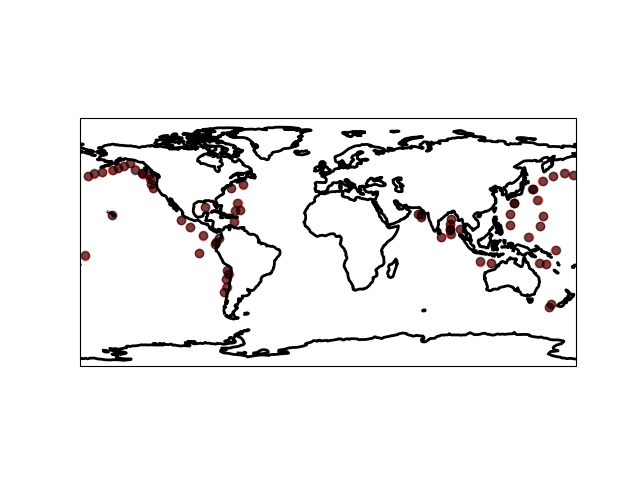
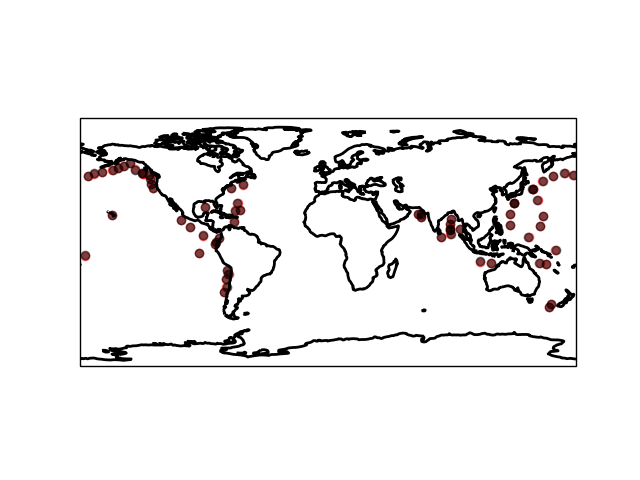
some analysis scripts

Changed region(s): [[0.125, 0.75, 0.9062, 0.7812], [0.125, 0.2188, 0.9062, 0.25]]

diff --git a/sample_epi.py b/sample_epi.py
@@ -3,19 +3,35 @@ import numpy as np
 import os
 
 
-def get_epi():
+# def get_epi():
+#     dir = os.getcwd()+"/csvData/"
+#     fname = "eqs_gt_75_npac.csv"
+#     epi_df = pd.read_csv(dir+fname, sep=',')
+#     locs = np.zeros((len(epi_df), 2))
+#     epi_df['corrected_lons'] = epi_df['longitude'].apply(lambda x: 360. + x if x < 0 else x)
+#     locs[:, 0] = epi_df['corrected_lons'].to_numpy()
+#     locs[:, 1] = epi_df['latitude'].to_numpy()
+#     loc_idx = np.random.randint(0,len(epi_df)-1)
+#     U1 = np.random.uniform()
+#     U2 = np.random.uniform()
+#     rlong = 5./54.6
+#     rlat = 5./69.
+#     long_sample = rlong * np.sqrt(U2) * np.cos(2 * np.pi * U1) + locs[loc_idx][0]
+#     lat_sample = rlat * np.sqrt(U2) * np.sin(2 * np.pi * U1) + locs[loc_idx][1]
+#     return long_sample, lat_sample
+
+
+def get_lons():
     dir = os.getcwd()+"/csvData/"
-    fname = "eqs_gt_8.csv"
+    fname = "eq_gt_75_npac.csv"
     epi_df = pd.read_csv(dir+fname, sep=',')
-    locs = np.zeros((len(epi_df), 2))
     epi_df['corrected_lons'] = epi_df['longitude'].apply(lambda x: 360. + x if x < 0 else x)
-    locs[:, 0] = epi_df['corrected_lons'].to_numpy()
-    locs[:, 1] = epi_df['latitude'].to_numpy()
-    loc_idx = np.random.randint(0,len(epi_df)-1)
-    U1 = np.random.uniform()
-    U2 = np.random.uniform()
-    rlong = 10./54.6
-    rlat = 10./69.
-    long_sample = rlong * np.sqrt(U2) * np.cos(2 * np.pi * U1) + locs[loc_idx][0]
-    lat_sample = rlat * np.sqrt(U2) * np.sin(2 * np.pi * U1) + locs[loc_idx][1]
-    return long_sample, lat_sample
+    lons = epi_df['corrected_lons'].to_numpy()
+    return lons
+
+def get_lats():
+    dir = os.getcwd()+"/csvData/"
+    fname = "eq_gt_75_npac.csv"
+    epi_df = pd.read_csv(dir+fname, sep=',')
+    lats = epi_df['latitude'].to_numpy()
+    return lats

diff --git a/misc/analyze_signals.py b/misc/analyze_signals.py
@@ -1,0 +1,43 @@
+import matplotlib.pyplot as plt
+import os
+import scipy.io as sio
+import numpy as np
+
+from warnings import filterwarnings
+filterwarnings(action='ignore', category=DeprecationWarning, message='`np.bool` is a deprecated alias')
+
+proj = os.path.normpath(os.getcwd() + os.sep + os.pardir)
+data_dir = os.listdir(proj+"/matData")
+data_dir.sort()
+
+for i in range(len(data_dir)-1):
+    fidx = i
+    fname = data_dir[fidx]
+    data = sio.loadmat(proj+"/matData"+"/"+fname)
+    sim_num = fname.split("_")[0]
+    epi_long = fname.split("_")[1]
+    epi_lat = fname.split("_")[2]
+
+    z = data['zt']
+    sensor_indices = data['sensor_loc_indices']
+    signals = z[:,sensor_indices,0].T.reshape(len(sensor_indices[0,:]),len(z))
+    t = np.arange(len(z))
+    signal_derivs = signals[:,1:]-signals[:,0:-1]
+    abs_deriv = np.abs(signal_derivs)
+    signal_maxes = np.amax(abs_deriv, axis=1)
+    signal_max_inds = signal_maxes.argsort()[-10:]
+
+    # fig, axs = plt.subplots(10)
+    # plot_ctr = 0
+    # for idx in signal_max_inds:
+    #     axs[plot_ctr].plot(t,signals[idx])
+    #     plot_ctr += 1
+
+    fig, axs = plt.subplots(nrows=5,ncols=2)
+    for ax, idx in zip(axs.ravel(),signal_max_inds):
+        ax.plot(t, signals[idx])
+
+    plt.savefig(proj+"/figs/signals/"+"top_sigs_for_sim"+sim_num+"at_epi_"+epi_long+"_"+epi_lat+".png")
+
+
+

diff --git a/misc/plot_sols.py b/misc/plot_sols.py
@@ -1,0 +1,41 @@
+import matplotlib.pyplot as plt
+import cartopy.crs as ccrs
+import os
+import scipy.io as sio
+from matplotlib import cm
+
+from warnings import filterwarnings
+filterwarnings(action='ignore', category=DeprecationWarning, message='`np.bool` is a deprecated alias')
+
+for i in range(5):
+    for t in [1,51,101,151,200]:
+        print(i,t)
+        proj = os.path.normpath(os.getcwd() + os.sep + os.pardir)
+        data_dir = os.listdir(proj+"/matData")
+        data_dir.sort()
+        fidx = i
+        fname = data_dir[fidx]
+        print(fname)
+        data = sio.loadmat(proj+"/matData"+"/"+fname)
+
+        lons = data['longitude']
+        lats = data['latitude']
+        z = data['zt']
+
+        lons = lons[0,:]
+        lats = lats[0,:]
+        zt = z[t][:,0]
+        print(lons)
+        print(lats)
+        print(zt)
+
+        ax1 = plt.axes(projection=ccrs.PlateCarree())
+        plt.tricontourf(lons,lats,zt, cmap='bwr',alpha=.5,zorder=1,transform=ccrs.PlateCarree())
+        ax1.coastlines(resolution='110m', color='black', linewidth=1, zorder=2)
+        plt.colorbar()
+        print(proj+"/figs/"+"zt_field_sim"+str(i+1)+"_time"+str(t)+".png")
+        plt.savefig(proj+"/figs/fields/"+"zt_field_sim"+str(i+1)+"_time"+str(t)+".png")
+        plt.close("all")
+
+
+
